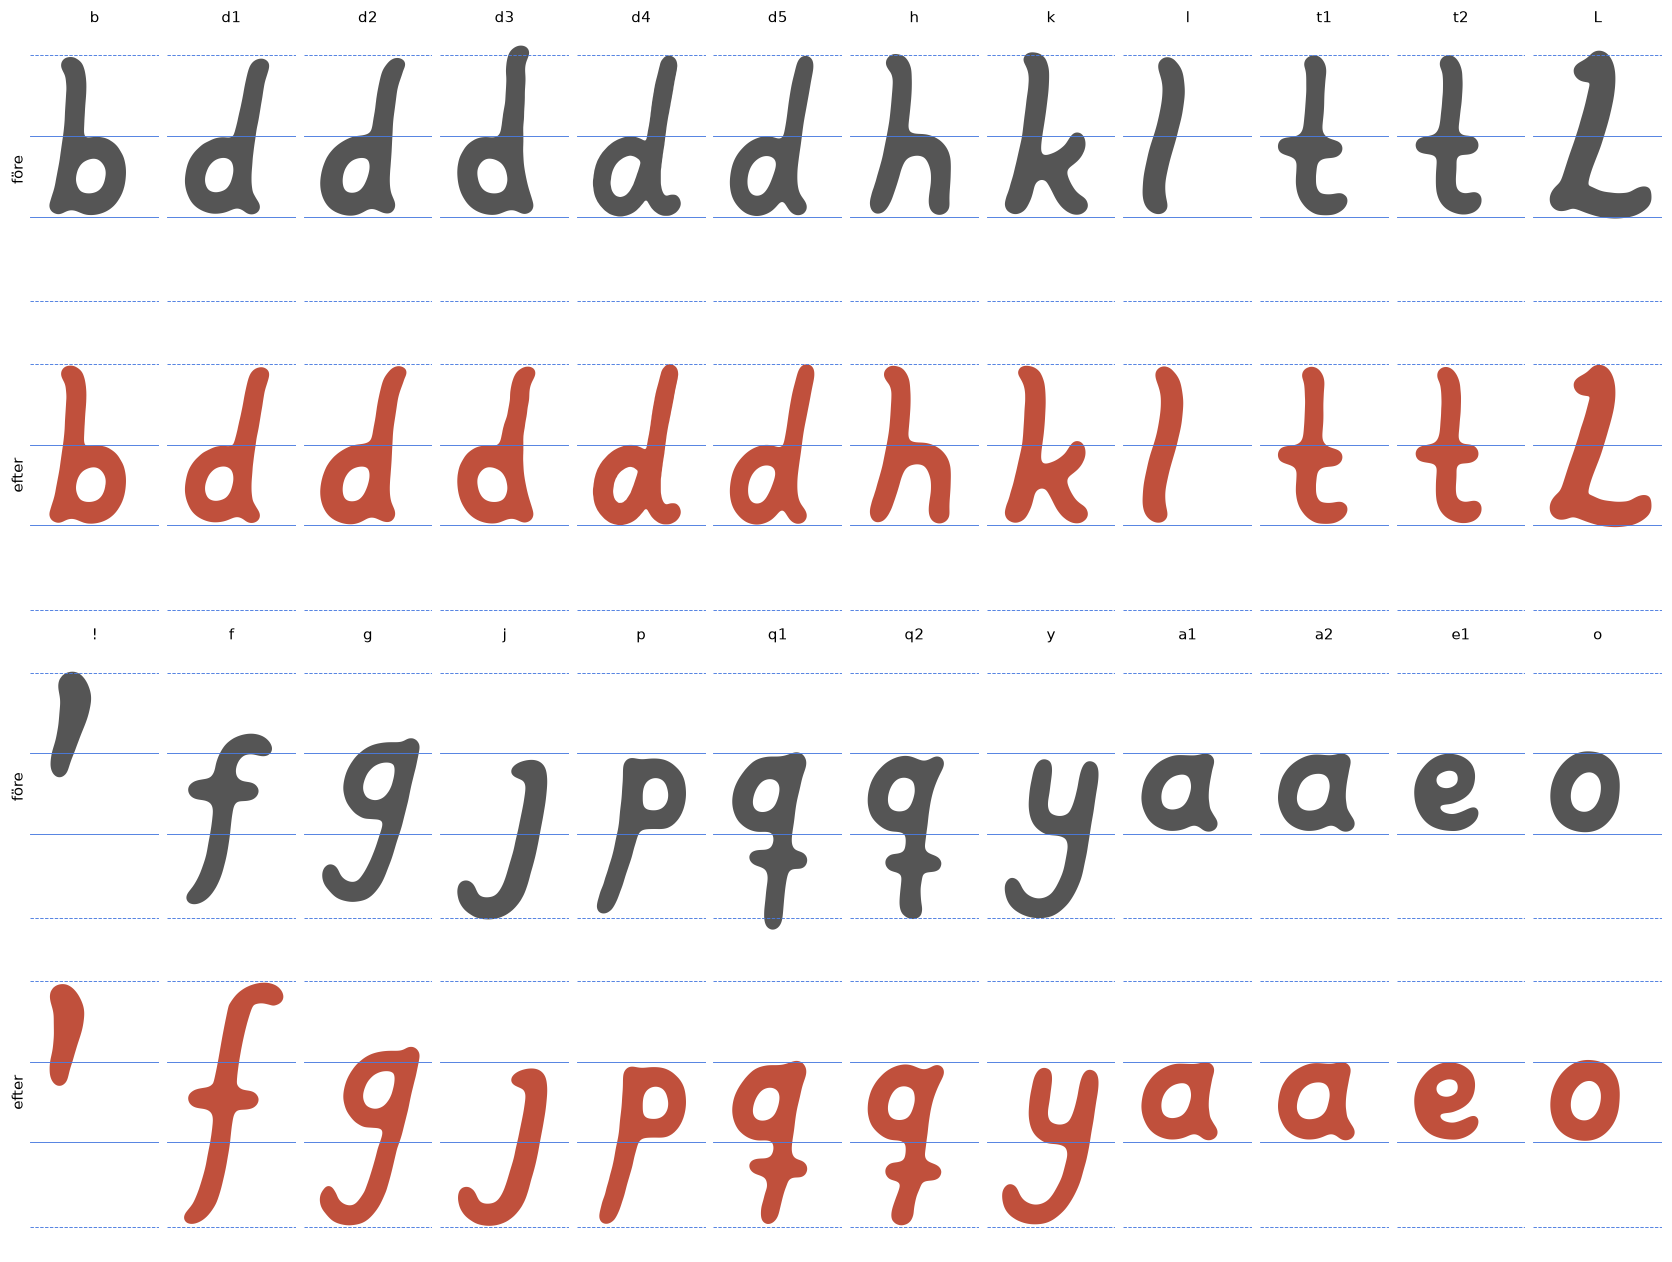
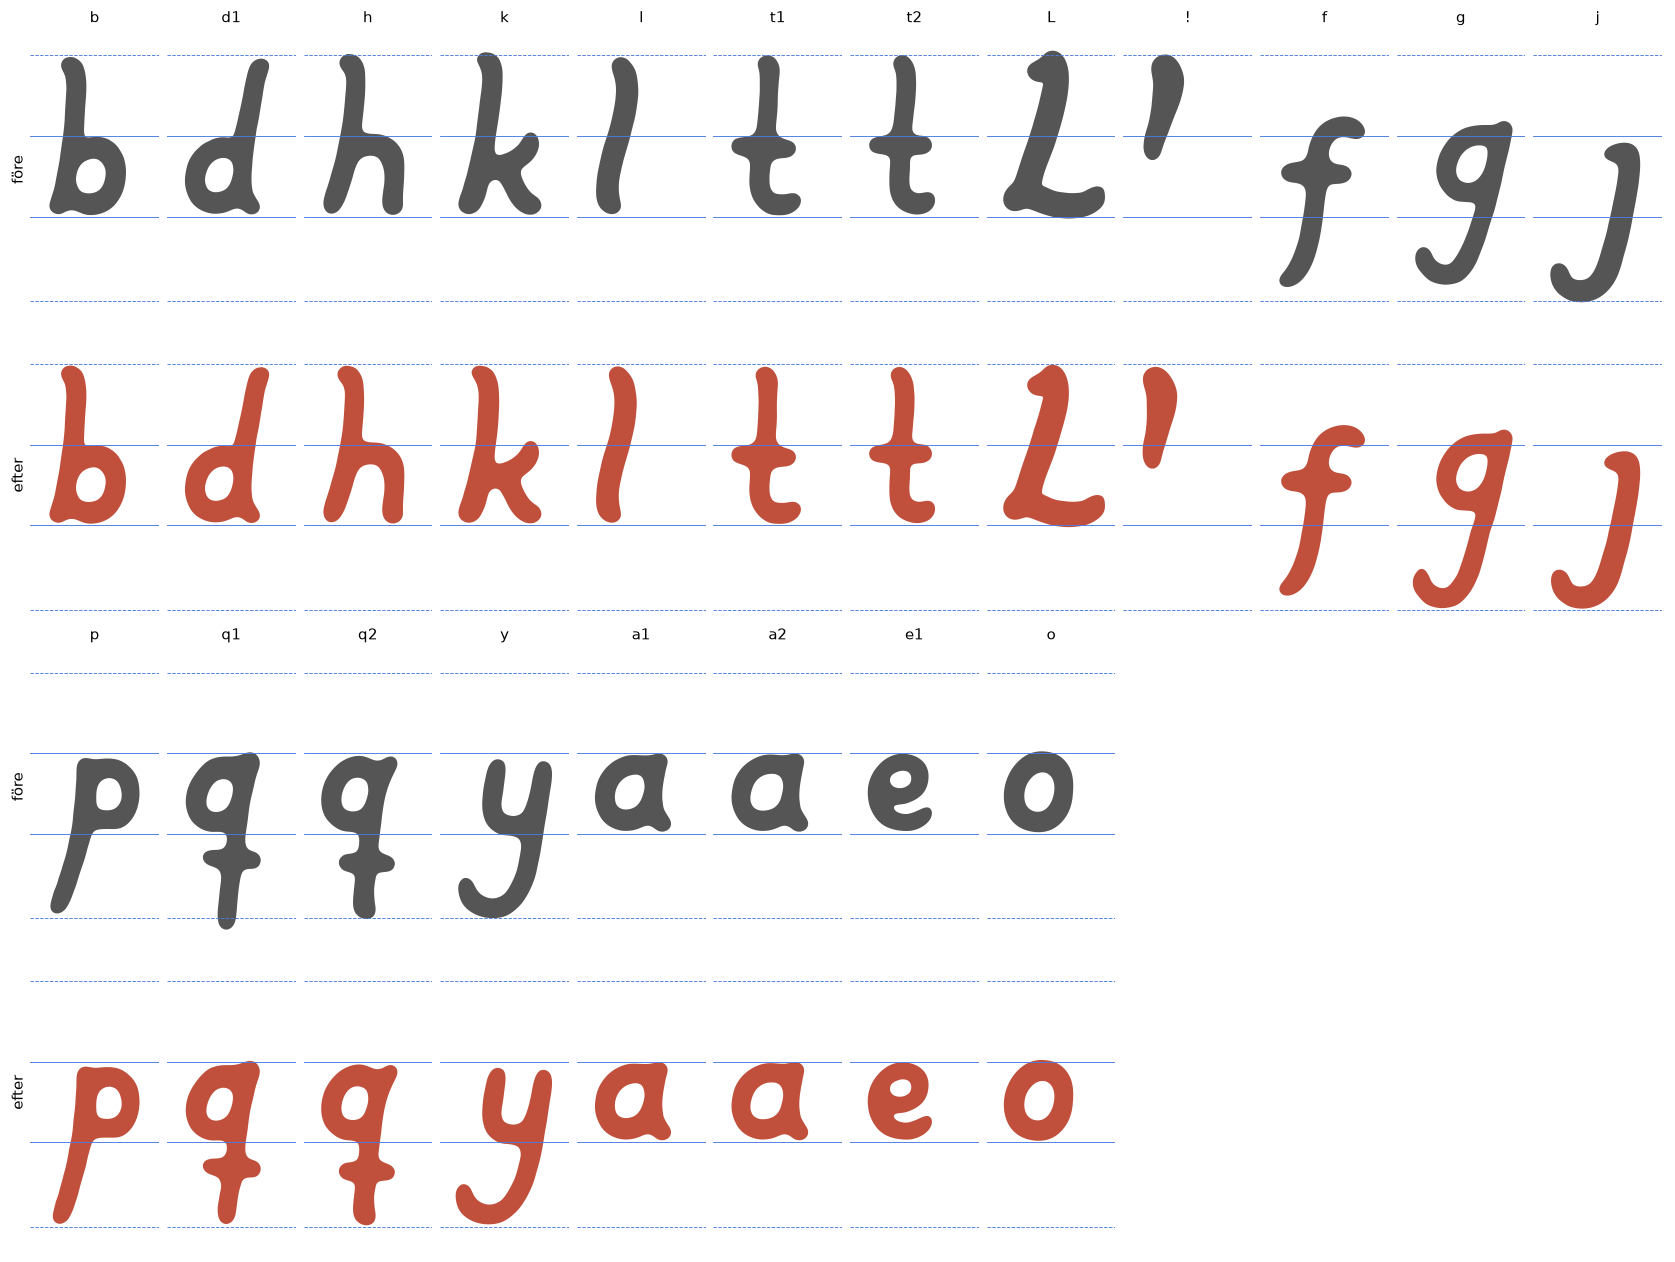
Behåll f och q:s lutning som originalet och använd bara d1
f lämnas exakt som originalet. q får rätt djup men behåller sin egen
lutning. d2–d5 sparas inte längre; d1 är det d som gäller.

Claude-Session: https://claude.ai/code/session_01G3Fa1qrTuHzte3kfXkaDtX

diff --git a/bokstaver/justera.py b/bokstaver/justera.py
@@ -5,8 +5,10 @@ möjligt:
 
 1. Uppstaplar blir 2 × x-höjden och får samma lutning som förebilderna b och d
    (d:et i raden "aabcd"), som lämnas orörda: h, k, l, t, L lutar som b, och
-   övriga d, f och ! lutar som d. L är en versal och får bara rätt höjd.
-2. Nedstaplar (g, j, p, q, y, f) blir 1,05 × x-höjden djupa och lutar 15°.
+   ! lutar som d. L är en versal och får bara rätt höjd. f lämnas orörd.
+   Bara d1 används; d2–d5 sparas inte.
+2. Nedstaplar (g, j, p, q, y) blir 1,05 × x-höjden djupa och lutar 15°
+   (q behåller sin egen lutning).
    Bara stapelns raka del sträcks; krokar och ändar flyttas oförändrade.
    Lutningen ändras bara i upp-/nedstapeln, med en mjuk övergång.
 3. Alla hål (a, b, d, e, g, o, p, q) får minst SLAPP_HAL grader släppvinkel
@@ -41,10 +43,11 @@ BOKSTAVER = {
     # b och d1 är förebilder och lämnas som de är (bara släppet i hålen ändras)
     (-23.04, -10.00): dict(namn="b", bas=-10.00, forebild="b"),
     (-17.99, -10.01): dict(namn="d1", bas=-10.01, forebild="d"),
-    (-16.85, -5.48): dict(namn="d2", bas=-5.48, upp=(2.3, 3.5), som="d"),
-    (-10.76, -6.58): dict(namn="d3", bas=-6.58, upp=(2.3, 3.6), som="d"),
-    (-19.07, -15.22): dict(namn="d4", bas=-15.22, upp=(2.3, 3.5), som="d"),
-    (-15.06, -15.00): dict(namn="d5", bas=-15.00, upp=(2.3, 3.5), som="d"),
+    # d2–d5 är överblivna varianter; d1 är det d som gäller
+    (-16.85, -5.48): dict(namn="d2", hoppa=True),
+    (-10.76, -6.58): dict(namn="d3", hoppa=True),
+    (-19.07, -15.22): dict(namn="d4", hoppa=True),
+    (-15.06, -15.00): dict(namn="d5", hoppa=True),
     (19.65, -0.06): dict(namn="h", bas=-0.06, upp=(2.3, 3.5), som="b"),
     (22.52, -0.09): dict(namn="k", bas=-0.09, upp=(2.3, 3.5), som="b"),
     (2.75, -19.96): dict(namn="l", bas=-19.96, upp=(2.3, 3.5), som="b"),
@@ -52,13 +55,14 @@ BOKSTAVER = {
     (-1.72, -20.05): dict(namn="t2", bas=-20.05, upp=(2.3, 3.5), som="b"),
     (-26.68, -20.16): dict(namn="L", bas=-20.10, upp=(2.3, 3.5), som=None),  # versal: bara höjden
     (-14.71, 1.31): dict(namn="utropstecken", bas=0.0, upp=(1.6, 3.6), som="d"),
-    (12.35, -21.82): dict(namn="f", bas=-20.00, upp=(1.45, 1.95), ned=(-0.3, -1.3), som="d"),
+    (12.35, -21.82): dict(namn="f"),  # lämnas exakt som originalet
     (-44.68, -1.73): dict(namn="g", bas=0.0, ned=(-0.1, -0.9)),
     (-32.76, -2.16): dict(namn="y", bas=0.0, ned=(-0.2, -1.2)),
     (-29.51, -2.15): dict(namn="j", bas=0.0, ned=(-0.2, -1.2)),
     (-27.42, -2.06): dict(namn="p", bas=0.0, ned=(-0.2, -1.6)),
-    (-0.70, -2.45): dict(namn="q1", bas=0.0, ned=(-1.0, -2.1)),
-    (1.76, -2.16): dict(namn="q2", bas=0.0, ned=(-1.0, -1.9)),
+    # q behåller sin egen lutning; bara djupet justeras
+    (-0.70, -2.45): dict(namn="q1", bas=0.0, ned=(-1.0, -2.1), behall_vinkel=True),
+    (1.76, -2.16): dict(namn="q2", bas=0.0, ned=(-1.0, -1.9), behall_vinkel=True),
 }
 OVRIGA = {  # namn på bokstäver som inte har upp-/nedstaplar
     (-28.73, 8.74): "e1", (-26.38, 9.03): "e2", (-50.70, -0.09): "e3",
@@ -216,7 +220,7 @@ def main():
     for p in delar:
         info = hitta(BOKSTAVER, p)
         namn = info["namn"] if info else hitta(OVRIGA, p) or f"okand_{p.bounds[0,0]:.1f}_{p.bounds[0,1]:.1f}"
-        if bara and namn not in bara:
+        if (bara and namn not in bara) or (info and info.get("hoppa")):
             continue
         v = p.vertices.copy()
         andrat = []
@@ -228,8 +232,10 @@ def main():
             else:
                 andrat.append(f"upp {d:+.2f}, lutning {np.degrees(np.arctan(k)) if k is not None else float('nan'):.1f}°→{np.degrees(np.arctan(k_mal)):.1f}° (som {info['som']})")
         if info and "ned" in info:
-            v, d, k = stapel(v, p.faces, info["bas"], info["ned"], -NED, False, np.tan(np.radians(NED_VINKEL)))
-            andrat.append(f"ned {d:+.2f}, lutning {np.degrees(np.arctan(k)) if k is not None else float('nan'):.1f}°→{NED_VINKEL}°")
+            k_mal = None if info.get("behall_vinkel") else np.tan(np.radians(NED_VINKEL))
+            v, d, k = stapel(v, p.faces, info["bas"], info["ned"], -NED, False, k_mal)
+            andrat.append(f"ned {d:+.2f}, " + ("lutning oförändrad" if k_mal is None else
+                          f"lutning {np.degrees(np.arctan(k)) if k is not None else float('nan'):.1f}°→{NED_VINKEL}°"))
         m = trimesh.Trimesh(v, p.faces, process=False)
         m, hal = slapp_i_hal(m)
         if hal:

diff --git a/bokstaver/jamfor.py b/bokstaver/jamfor.py
@@ -13,7 +13,7 @@ from matplotlib.collections import PolyCollection
 
 from justera import BOKSTAVER, OVRIGA, hitta, XHOJD, UPP, NED
 
-ORDNING = ["b", "d1", "d2", "d3", "d4", "d5", "h", "k", "l", "t1", "t2", "L", "utropstecken", "f",
+ORDNING = ["b", "d1", "h", "k", "l", "t1", "t2", "L", "utropstecken", "f",
            "g", "j", "p", "q1", "q2", "y", "a1", "a2", "e1", "o"]
 
 
@@ -36,7 +36,7 @@ def main():
             continue
         info = hitta(BOKSTAVER, p)
         namn = info["namn"] if info else hitta(OVRIGA, p)
-        bas = info["bas"] if info else p.bounds[0, 1]
+        bas = info.get("bas", -20.0 if info["namn"] == "f" else p.bounds[0, 1]) if info else p.bounds[0, 1]
         original[namn] = (p, bas)
     per_rad = 12
     rader = (len(ORDNING) + per_rad - 1) // per_rad
